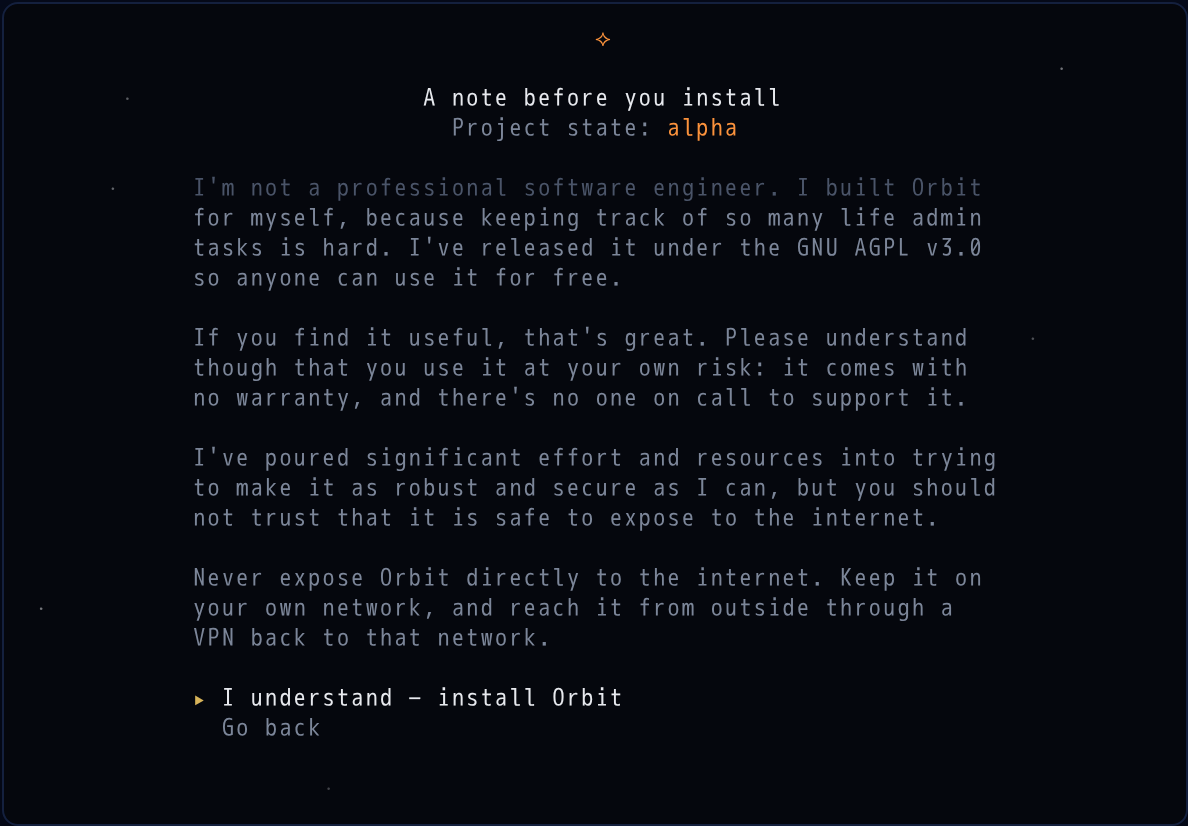
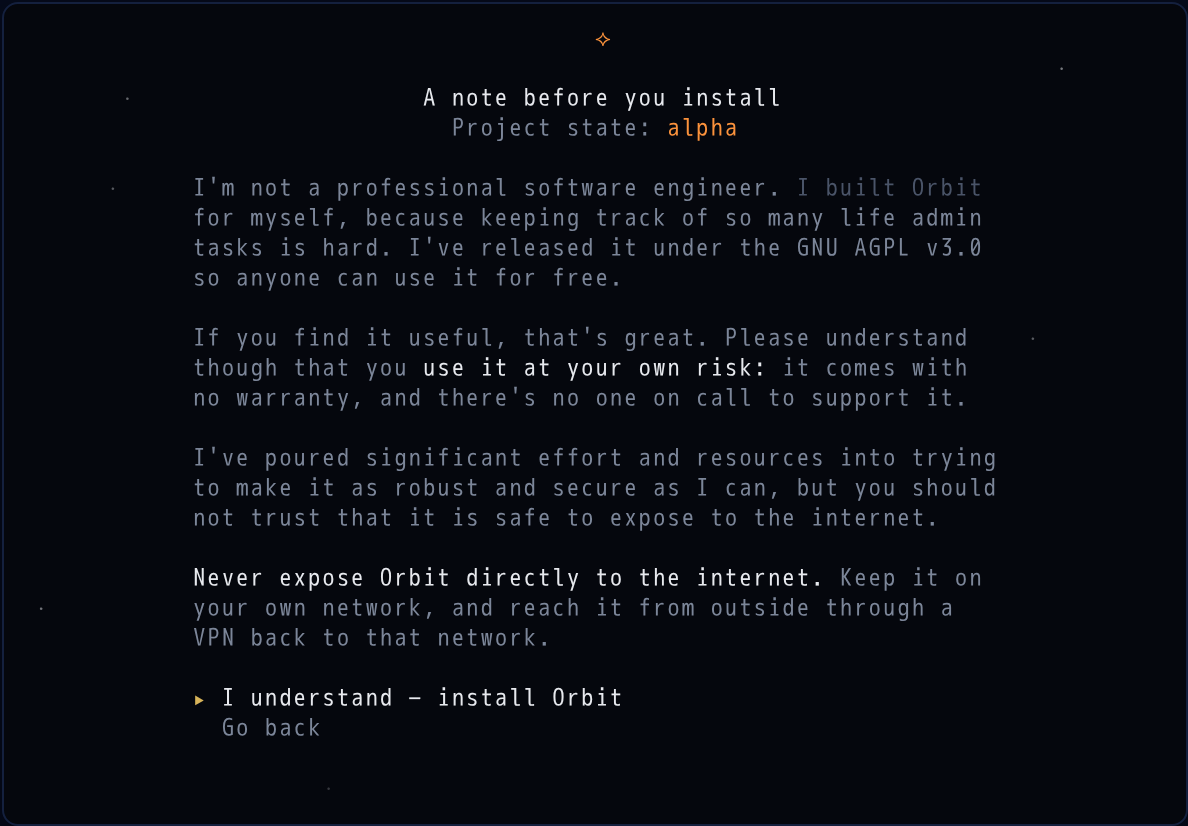
docs(design): emphasise the owner's three phrases in the notice mockup (#175)

diff --git a/design/mockups-v7-notice.html b/design/mockups-v7-notice.html
@@ -52,7 +52,7 @@
 <section>
   <h2><span>a</span> First view — 80×26, the house minimum</h2>
   <div class="term scene" id="scene-a"><pre class="cells" id="n-a" role="img"
-    aria-label="Notice screen at 80 by 26 cells: amber orbit mark, bold title A note before you install, Project state alpha, then prose whose last visible row is faint and cut mid-sentence. Pinned beneath: a thin timer line just starting to fill gold with 0:38 at its end, the accept choice drawn faint, and the caret on Go back."></pre></div>
+    aria-label="Notice screen at 80 by 26 cells: amber orbit mark, bold title A note before you install, Project state alpha, then prose with three phrases in bold bright ink; the last visible row is faint and cut mid-sentence, its emphasised phrase Never expose Orbit directly to the internet still bold one step brighter. Pinned beneath: a thin timer line just starting to fill gold with 0:38 at its end, the accept choice drawn faint, and the caret on Go back."></pre></div>
   <div class="cap">Header and the bottom region (timer, two choices) are pinned; only the prose between
     them scrolls. The last visible prose row steps down to faint and is cut mid-sentence: the sign
     there is more. The countdown is already running; Go back carries the caret; the accept row is
@@ -179,6 +179,18 @@
     (scene f). Timer first: the line vanishes while they are still reading; accept brightens the
     moment the last line scrolls in. Either way the caret is on Go back until they move it.</p>
 
+  <h3>7 · Emphasis (owner, 2026-10-03)</h3>
+  <p>Three phrases, wording untouched: "I'm not a professional software engineer", "use it at your own
+    risk", "Never expose Orbit directly to the internet". Drawn <b>bold, one ink step up from the row
+    they sit in</b>: on a normal (muted) row that is bold <code>Text</code> — the exact style every
+    flow screen's title already uses — and on a faded row (the cut-off bottom line, the top line when
+    scrolled) it is bold <code>TextMuted</code>, so the phrase steps down with its row and still
+    stands one step above it. Whole cells, two existing tokens, no new colour: gold is the caret's
+    and amber is state, and a warning phrase in either would read as a link or a fault. Under
+    <code>NO_COLOR</code> the steps vanish and bold alone carries it, which is why bold is part of
+    the rule and not a fallback. Scene a shows the hardest case: the hanging "Never expose" line is
+    faint, and its phrase is still the brightest thing on that row.</p>
+
   <div class="prop">
     <h3>Proposal · choice wording</h3>
     <p>The draft labels are drawn as given. One alternative for the first, flagged only: <b>"I've read
@@ -201,7 +213,9 @@
     never enters.<br>
     · The renderer clipped wide glyphs, so the em dash and ● drew as a short dash and a half disc;
     cells no longer clip. The labels use the em dash as approved.<br>
-    · Arrow keys: a simpler rule now that the choices do not scroll (see 4).</p>
+    · Arrow keys: a simpler rule now that the choices do not scroll (see 4).<br>
+    · Third pass: the owner's three phrases are emphasised (see 7), in every scene including the
+    faded rows.</p>
 </aside>
 </div>
 
@@ -267,25 +281,39 @@ const PARAS=[
   "Never expose Orbit directly to the internet. Keep it on your own network, and reach it from outside through a VPN back to that network."
 ];
 const CHOICES=["I understand — install Orbit","Go back"];
+// Owner-chosen emphasis (2026-10-03): three phrases, wording untouched.
+const EMPH=["I'm not a professional software engineer","use it at your own risk","Never expose Orbit directly to the internet"];
 const MEASURE=56;
 const TIMER_S=40;          // 144 words / 238 wpm = 36.3 s, rounded up to the next ten
 const BAR_CELLS=MEASURE-6; // the line, then two spaces and m:ss
 const GUTTER=2;            // every view line is padded to MEASURE+2*GUTTER; the sky stays outside
+// wrap: rows of segments {text, em}; markers bracket the emphasised phrases
+// before splitting so the flag rides with each word and never costs a cell
 function wrap(s,w){
-  const out=[]; let line="";
-  s.split(" ").forEach(function(word){
-    if(line&&(line+" "+word).length>w){out.push(line);line=word;}
-    else line=line?line+" "+word:word;
+  EMPH.forEach(function(ph){s=s.split(ph).join("\u0001"+ph+"\u0002");});
+  const words=[]; let em=false;
+  s.split(" ").forEach(function(raw){
+    const inside=em||raw.indexOf("\u0001")>=0;   // decided before the closing marker is consumed
+    let word="";
+    for(const ch of raw){ if(ch==="\u0001")em=true; else if(ch==="\u0002")em=false; else word+=ch; }
+    words.push({text:word, em:inside});
   });
-  if(line)out.push(line);
-  return out;
+  const rows=[]; let row=[], len=0;
+  words.forEach(function(wd){
+    const need=len?len+1+wd.text.length:wd.text.length;
+    if(len&&need>w){rows.push(row);row=[];len=0;}
+    if(len){row.push({text:" ",em:false});len++;}
+    row.push(wd); len+=wd.text.length;
+  });
+  if(row.length)rows.push(row);
+  return rows.map(function(r){return {text:r.map(function(x){return x.text;}).join(""),segs:r};});
 }
 // document rows (the prose only): {kind:"prose"|"blank", text}
 function buildDoc(){
   const d=[];
   PARAS.forEach(function(p,i){
     if(i)d.push({kind:"blank"});
-    wrap(p,MEASURE).forEach(function(l){d.push({kind:"prose",text:l});});
+    wrap(p,MEASURE).forEach(function(l){d.push({kind:"prose",text:l.text,segs:l.segs});});
   });
   return d;
 }
@@ -334,7 +362,16 @@ function noticeScreen(id,W,H,state){
     S.str(r,sx,STATE_LABEL,MUTED); S.str(r,sx+STATE_LABEL.length,STATE_WORD,AMBER); r+=2;
     visible.forEach(function(row,i){
       const faded=(i===fadeTop||i===fadeBot);
-      if(row.kind==="prose")S.str(r+i,left,row.text,faded?FAINT:MUTED);
+      if(row.kind==="prose"){
+        // emphasis is one ink step up from its row, and bold: Text bold on a
+        // muted row (the title's own style), Muted bold on a faded row — so
+        // it survives both fades, and under NO_COLOR bold alone still carries it
+        let x=left;
+        row.segs.forEach(function(seg){
+          const col=seg.em?(faded?MUTED:TEXT):(faded?FAINT:MUTED);
+          S.str(r+i,x,seg.text,col,seg.em?{b:1}:undefined); x+=seg.text.length;
+        });
+      }
     });
     r+=visible.length;
     // bottom region: timer row (blank once done — the gate is gone, so is its object), then the choices
